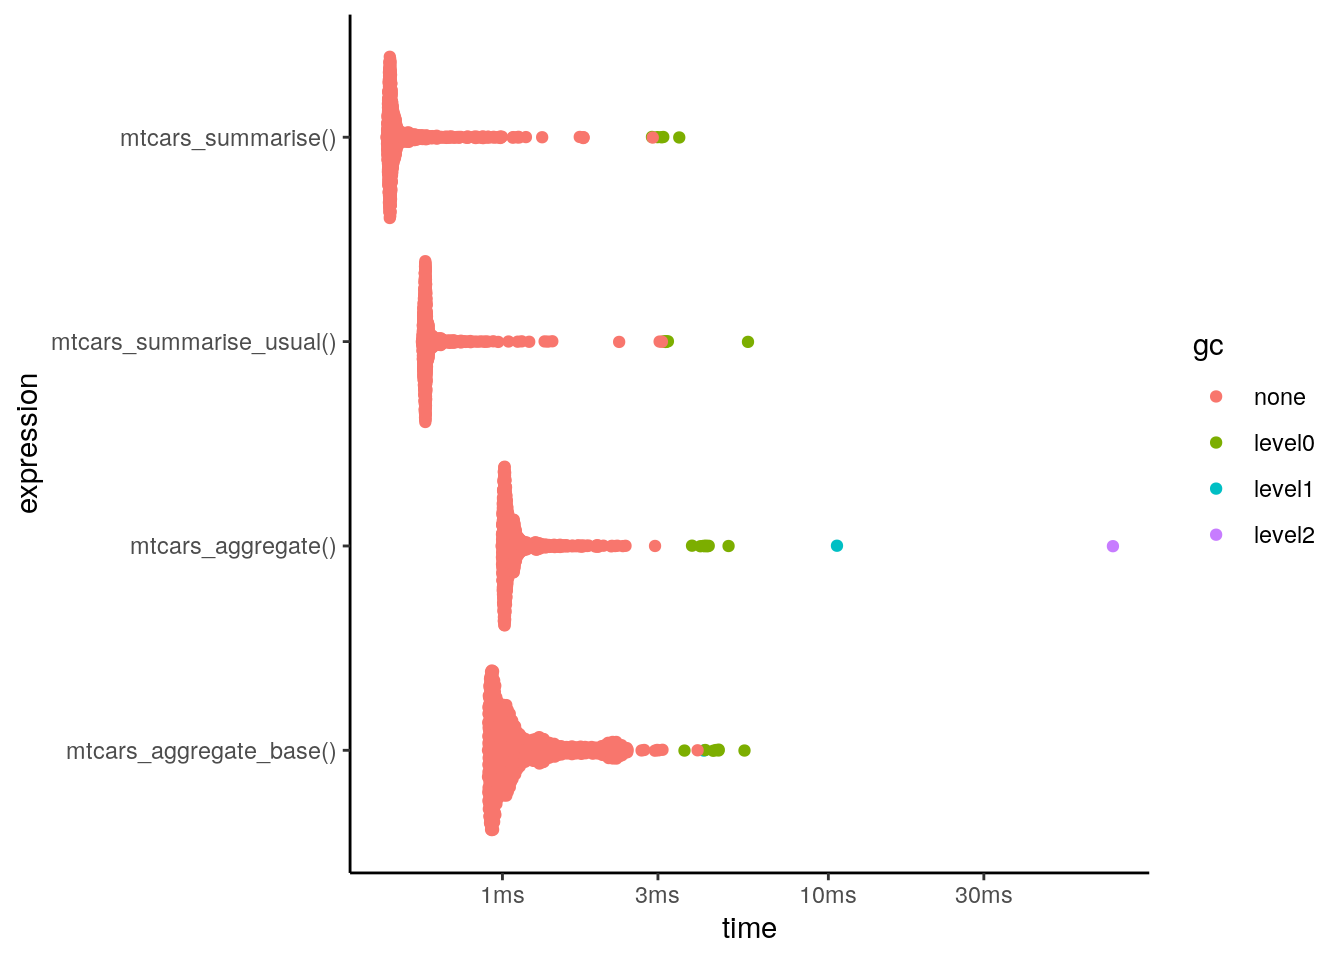
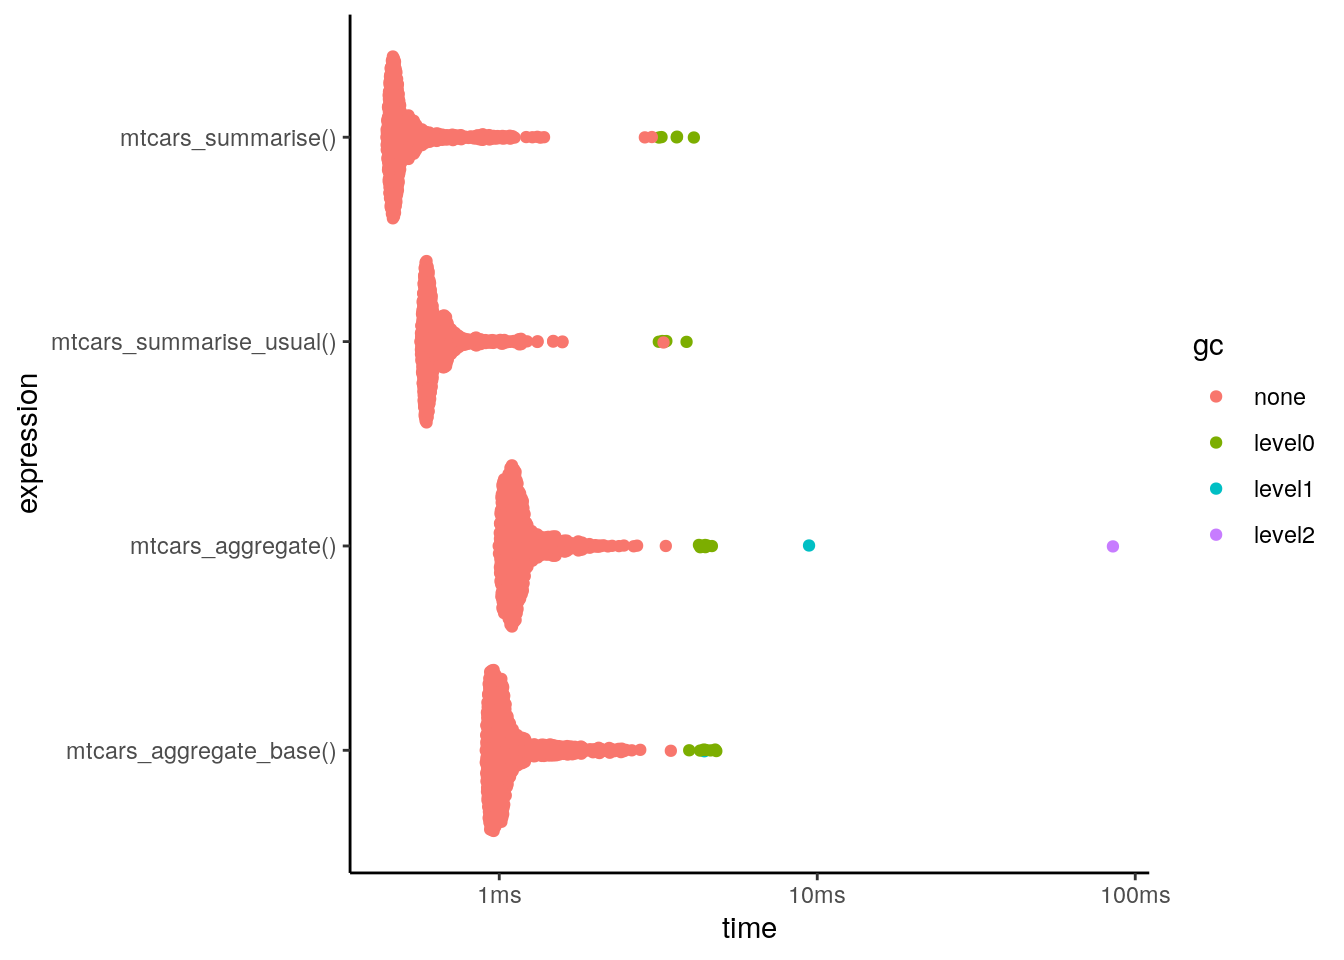
Updating the setup chunk

diff --git a/content/post/2019-07-nse-in-base-r.html b/content/post/2019-07-nse-in-base-r.html
@@ -1,0 +1,252 @@
+---
+title: NSE in base R
+author: Lluís Revilla Sancho
+date: '2019-07-05'
+slug: NSE-base
+categories:
+  - r
+tags:
+  - r
+  - tidyverse
+  - base
+  - NSE
+image:
+  caption: ''
+  focal_point: ''
+---
+
+
+
+<p>After some discussions on the internet (and some breaks I got in a pipe using <a href="https://cran.r-project.org/package=tidyr">tidyr</a>) I’ll decided to try to emulate <a href="https://cran.r-project.org/package=dplyr">dplyr</a> and other tidyr functions with base functions.</p>
+<div id="filter" class="section level2">
+<h2>Filter</h2>
+<p>The most important tipical function is filter, which basically does subsetting:</p>
+<pre class="r"><code>library(&quot;dplyr&quot;)
+## 
+## Attaching package: &#39;dplyr&#39;
+## The following objects are masked from &#39;package:stats&#39;:
+## 
+##     filter, lag
+## The following objects are masked from &#39;package:base&#39;:
+## 
+##     intersect, setdiff, setequal, union
+library(&quot;bench&quot;)
+mtcars_filter &lt;- filter(mtcars, am == &quot;1&quot;)
+mtcars_subset &lt;- subset(mtcars, am == &quot;1&quot;)
+all.equal(mtcars_filter, mtcars_subset)
+## [1] &quot;Attributes: &lt; Component \&quot;row.names\&quot;: Modes: numeric, character &gt;&quot;              
+## [2] &quot;Attributes: &lt; Component \&quot;row.names\&quot;: target is numeric, current is character &gt;&quot;</code></pre>
+<p>The first different are the rownames that are changed.
+So we can make a function to make the result equal:</p>
+<pre class="r"><code>filter_base &lt;- function(x, ...) {
+  y &lt;- subset(x, ...)
+  rownames(y) &lt;- NULL
+  y
+}
+mtcars_subset &lt;- filter_base(mtcars, am == &quot;1&quot;)
+# From the previous subset
+all.equal(mtcars_filter, mtcars_subset)
+## [1] TRUE
+m &lt;- mark(filter(mtcars, am == &quot;1&quot;), 
+          filter_base(mtcars, am == &quot;1&quot;),
+          iterations = 1000)
+plot(m) + ggplot2::theme_classic()
+## Loading required namespace: tidyr</code></pre>
+<p><img src="/post/2019-07-nse-in-base-r_files/figure-html/filter2-1.png" width="672" /></p>
+<pre class="r"><code>mtcars_filter &lt;- filter(mtcars, am == &quot;1&quot;, mpg &gt; 25)
+mtcars_subset &lt;- filter_base(mtcars, am == &quot;1&quot;, mpg &gt; 25)
+all.equal(mtcars_filter, mtcars_subset)
+## [1] &quot;names for target but not for current&quot;                                    
+## [2] &quot;Attributes: &lt; Component \&quot;row.names\&quot;: Numeric: lengths (6, 13) differ &gt;&quot;
+## [3] &quot;Length mismatch: comparison on first 0 components&quot;</code></pre>
+<p>The problem here is that we used a <code>,</code> to concatenate the different conditions.
+To concatenate a logical condition it is typical to use <code>&amp;</code>. If we go this way:</p>
+<pre class="r"><code>mtcars_subset &lt;- filter_base(mtcars, am == &quot;1&quot; &amp; mpg &gt; 25)
+# mtcars_filter is the same
+all.equal(mtcars_filter, mtcars_subset)
+## [1] TRUE
+
+m &lt;- mark(filter(mtcars, am == &quot;1&quot;, mpg &gt; 25),
+          filter_base(mtcars, am == &quot;1&quot; &amp; mpg &gt; 25),
+          iterations = 1000)
+plot(m) + ggplot2::theme_classic()</code></pre>
+<p><img src="/post/2019-07-nse-in-base-r_files/figure-html/filter4-1.png" width="672" /></p>
+<p>So we’ve show what is the equivalent of filter for some easy cases.</p>
+</div>
+<div id="grouping" class="section level2">
+<h2>Grouping</h2>
+<p>One of the functions I use most when using dplyr is <code>group_by</code>.
+But what is the equivalent of <code>group_by</code> on base?
+I don’t know, so let’s explore what does it do to try to find it’s equivalent.
+Let’s look into it:</p>
+<pre class="r"><code>(mtcars_grouped &lt;- group_by(mtcars, vs))
+## # A tibble: 32 x 11
+## # Groups:   vs [2]
+##      mpg   cyl  disp    hp  drat    wt  qsec    vs    am  gear  carb
+##  * &lt;dbl&gt; &lt;dbl&gt; &lt;dbl&gt; &lt;dbl&gt; &lt;dbl&gt; &lt;dbl&gt; &lt;dbl&gt; &lt;dbl&gt; &lt;dbl&gt; &lt;dbl&gt; &lt;dbl&gt;
+##  1  21       6  160    110  3.9   2.62  16.5     0     1     4     4
+##  2  21       6  160    110  3.9   2.88  17.0     0     1     4     4
+##  3  22.8     4  108     93  3.85  2.32  18.6     1     1     4     1
+##  4  21.4     6  258    110  3.08  3.22  19.4     1     0     3     1
+##  5  18.7     8  360    175  3.15  3.44  17.0     0     0     3     2
+##  6  18.1     6  225    105  2.76  3.46  20.2     1     0     3     1
+##  7  14.3     8  360    245  3.21  3.57  15.8     0     0     3     4
+##  8  24.4     4  147.    62  3.69  3.19  20       1     0     4     2
+##  9  22.8     4  141.    95  3.92  3.15  22.9     1     0     4     2
+## 10  19.2     6  168.   123  3.92  3.44  18.3     1     0     4     4
+## # … with 22 more rows
+class(mtcars_grouped)
+## [1] &quot;grouped_df&quot; &quot;tbl_df&quot;     &quot;tbl&quot;        &quot;data.frame&quot;</code></pre>
+<p>First thing we note is that it converts it to a tibble. Second that it has a
+<code>Groups: Species [3]</code> at the top of the printed result. To look what is this and where it comes from let’s look at the structure with <code>str</code>:</p>
+<pre class="r"><code>str(mtcars_grouped)
+## Classes &#39;grouped_df&#39;, &#39;tbl_df&#39;, &#39;tbl&#39; and &#39;data.frame&#39;:  32 obs. of  11 variables:
+##  $ mpg : num  21 21 22.8 21.4 18.7 18.1 14.3 24.4 22.8 19.2 ...
+##  $ cyl : num  6 6 4 6 8 6 8 4 4 6 ...
+##  $ disp: num  160 160 108 258 360 ...
+##  $ hp  : num  110 110 93 110 175 105 245 62 95 123 ...
+##  $ drat: num  3.9 3.9 3.85 3.08 3.15 2.76 3.21 3.69 3.92 3.92 ...
+##  $ wt  : num  2.62 2.88 2.32 3.21 3.44 ...
+##  $ qsec: num  16.5 17 18.6 19.4 17 ...
+##  $ vs  : num  0 0 1 1 0 1 0 1 1 1 ...
+##  $ am  : num  1 1 1 0 0 0 0 0 0 0 ...
+##  $ gear: num  4 4 4 3 3 3 3 4 4 4 ...
+##  $ carb: num  4 4 1 1 2 1 4 2 2 4 ...
+##  - attr(*, &quot;groups&quot;)=Classes &#39;tbl_df&#39;, &#39;tbl&#39; and &#39;data.frame&#39;:   2 obs. of  2 variables:
+##   ..$ vs   : num  0 1
+##   ..$ .rows:List of 2
+##   .. ..$ : int  1 2 5 7 12 13 14 15 16 17 ...
+##   .. ..$ : int  3 4 6 8 9 10 11 18 19 20 ...
+##   ..- attr(*, &quot;.drop&quot;)= logi TRUE</code></pre>
+<p>We can see that it has a new attribute named “groups”:</p>
+<pre class="r"><code>groups_dplyr &lt;- attr(mtcars_grouped, &quot;groups&quot;)
+groups_dplyr$vs
+## [1] 0 1
+groups_dplyr$.rows
+## [[1]]
+##  [1]  1  2  5  7 12 13 14 15 16 17 22 23 24 25 27 29 30 31
+## 
+## [[2]]
+##  [1]  3  4  6  8  9 10 11 18 19 20 21 26 28 32</code></pre>
+<p>This attribute is first a vector of the names of the group and a list of the indicies of each group.</p>
+<p>So what is the equivalent? I don’t know, but we can store the names and indicies with:</p>
+<pre class="r"><code>(groups_base &lt;- split(seq_along(mtcars$vs), mtcars$vs))
+## $`0`
+##  [1]  1  2  5  7 12 13 14 15 16 17 22 23 24 25 27 29 30 31
+## 
+## $`1`
+##  [1]  3  4  6  8  9 10 11 18 19 20 21 26 28 32</code></pre>
+<p>Now let’s try to complicate it more:</p>
+<pre class="r"><code>mtcars_grouped &lt;- group_by(mtcars, vs, am)
+group &lt;- attr(mtcars_grouped, &quot;group&quot;)</code></pre>
+<p>What would be our equivalent?</p>
+<pre class="r"><code>(groups_base &lt;- split(seq_along(mtcars$vs), as.factor(paste(mtcars$vs, mtcars$am))))
+## $`0 0`
+##  [1]  5  7 12 13 14 15 16 17 22 23 24 25
+## 
+## $`0 1`
+## [1]  1  2 27 29 30 31
+## 
+## $`1 0`
+## [1]  4  6  8  9 10 11 21
+## 
+## $`1 1`
+## [1]  3 18 19 20 26 28 32</code></pre>
+<p>We create a “hash” of the two factors added to create the index of each combination.</p>
+</div>
+<div id="summarise" class="section level2">
+<h2>Summarise</h2>
+<p>The base function for summarise is <code>aggregate</code>, we’ll look into it:</p>
+<pre class="r"><code>mtcars_summarised &lt;- mtcars %&gt;% 
+  group_by(vs, am) %&gt;% 
+  summarise(hp = mean(hp))
+
+mtcars_aggregated &lt;- aggregate(hp ~ vs + am,
+                               data = mtcars, 
+                               FUN = mean, simplify = FALSE)
+mtcars_summarised
+## # A tibble: 4 x 3
+## # Groups:   vs [2]
+##      vs    am    hp
+##   &lt;dbl&gt; &lt;dbl&gt; &lt;dbl&gt;
+## 1     0     0 194. 
+## 2     0     1 181. 
+## 3     1     0 102. 
+## 4     1     1  80.6
+mtcars_aggregated
+##   vs am       hp
+## 1  0  0 194.1667
+## 2  1  0 102.1429
+## 3  0  1 180.8333
+## 4  1  1 80.57143</code></pre>
+<p>We can see that we get the same result but with different order and class.
+We need to order the data.frame and remove the rows in order to get them equal
+(and get back to a <code>data.frame</code> in the case of <code>summarise</code>).</p>
+<pre class="r"><code>mtcars_aggregated$hp &lt;- unlist(mtcars_aggregated$hp) # To unlist the summary
+mtcars_aggregated &lt;- mtcars_aggregated[order(mtcars_aggregated$hp, 
+                                             decreasing = TRUE), ]
+rownames(mtcars_aggregated) &lt;- NULL
+mtcars_aggregated
+##   vs am        hp
+## 1  0  0 194.16667
+## 2  0  1 180.83333
+## 3  1  0 102.14286
+## 4  1  1  80.57143
+mtcars_summarised
+## # A tibble: 4 x 3
+## # Groups:   vs [2]
+##      vs    am    hp
+##   &lt;dbl&gt; &lt;dbl&gt; &lt;dbl&gt;
+## 1     0     0 194. 
+## 2     0     1 181. 
+## 3     1     0 102. 
+## 4     1     1  80.6
+all.equal(mtcars_aggregated, mtcars_summarised)
+## [1] &quot;Attributes: &lt; Names: 1 string mismatch &gt;&quot;                                              
+## [2] &quot;Attributes: &lt; Length mismatch: comparison on first 2 components &gt;&quot;                     
+## [3] &quot;Attributes: &lt; Component \&quot;class\&quot;: Lengths (1, 4) differ (string compare on first 1) &gt;&quot;
+## [4] &quot;Attributes: &lt; Component \&quot;class\&quot;: 1 string mismatch &gt;&quot;                                
+## [5] &quot;Attributes: &lt; Component 2: Modes: numeric, list &gt;&quot;                                     
+## [6] &quot;Attributes: &lt; Component 2: Lengths: 4, 2 &gt;&quot;                                            
+## [7] &quot;Attributes: &lt; Component 2: names for current but not for target &gt;&quot;                     
+## [8] &quot;Attributes: &lt; Component 2: Attributes: &lt; target is NULL, current is list &gt; &gt;&quot;          
+## [9] &quot;Attributes: &lt; Component 2: target is numeric, current is tbl_df &gt;&quot;</code></pre>
+<p>Now we create some functions:</p>
+<pre class="r"><code># In just one long line to avoid calls to %&gt;% 
+mtcars_summarise &lt;- function(){ 
+  as.data.frame(summarise(group_by(mtcars, vs, am), hp = mean(hp)))
+}
+mtcars_summarise_usual &lt;- function(){ 
+  mtcars %&gt;% 
+    group_by(vs, am) %&gt;% 
+    summarise(hp = mean(hp))
+}
+
+mtcars_aggregate &lt;- function(){ 
+  mtcars_aggregated &lt;- aggregate(hp ~ vs + am,
+                               data = mtcars, 
+                               FUN = mean)
+  mtcars_aggregated$hp &lt;- unlist(mtcars_aggregated$hp) # To unlist the summary
+  mtcars_aggregated &lt;- mtcars_aggregated[order(mtcars_aggregated$hp, 
+                                               decreasing = TRUE), ]
+  rownames(mtcars_aggregated) &lt;- NULL
+  mtcars_aggregated
+}
+
+mtcars_aggregate_base &lt;- function() {
+   aggregate(hp ~ vs + am,
+                               data = mtcars, 
+                               FUN = mean)
+}
+m &lt;- mark(mtcars_aggregate(), 
+          mtcars_summarise(),
+          mtcars_summarise_usual(), 
+          mtcars_aggregate_base(),
+          iterations = 1000, check = FALSE)
+plot(m) + ggplot2::theme_classic()</code></pre>
+<p><img src="/post/2019-07-nse-in-base-r_files/figure-html/summarise3-1.png" width="672" /></p>
+</div>
+<div id="references" class="section level2">
+<h2>References</h2>
+<p>After writing this I found this <a href="https://tavareshugo.github.io/data_carpentry_extras/base-r_tidyverse_equivalents/base-r_tidyverse_equivalents.html">other summary</a> which covers the same</p>
+</div>
